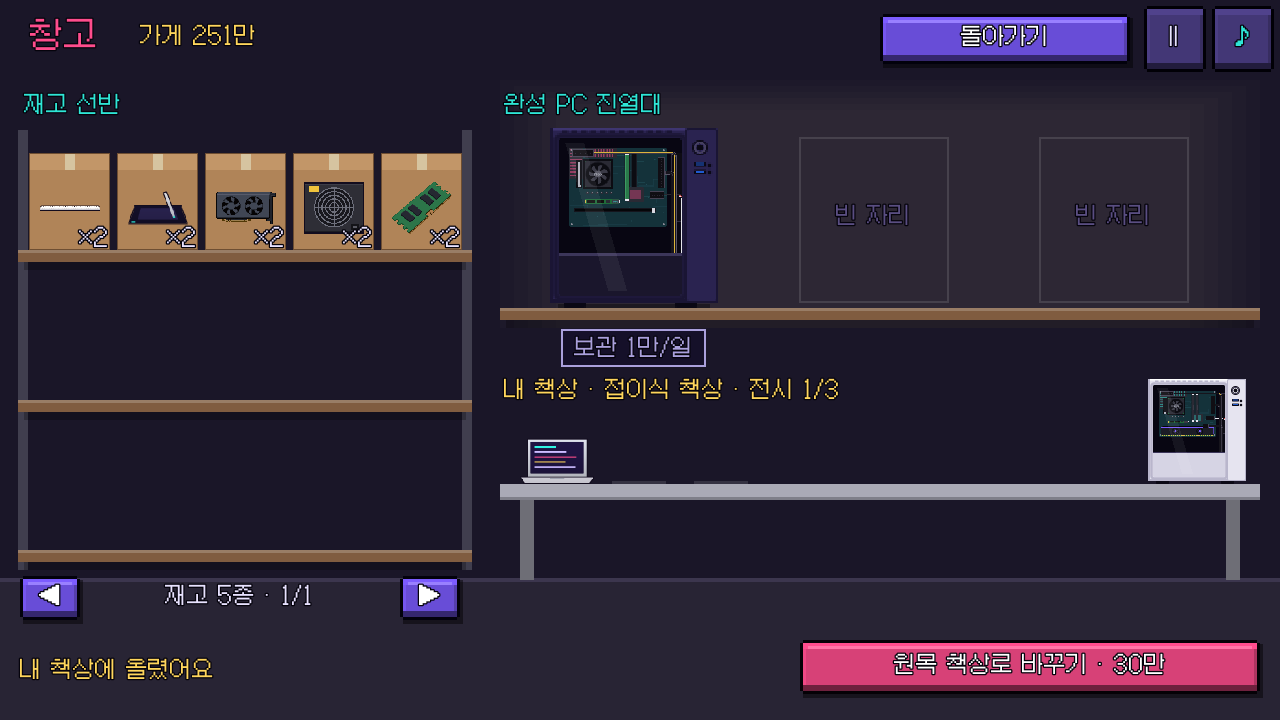
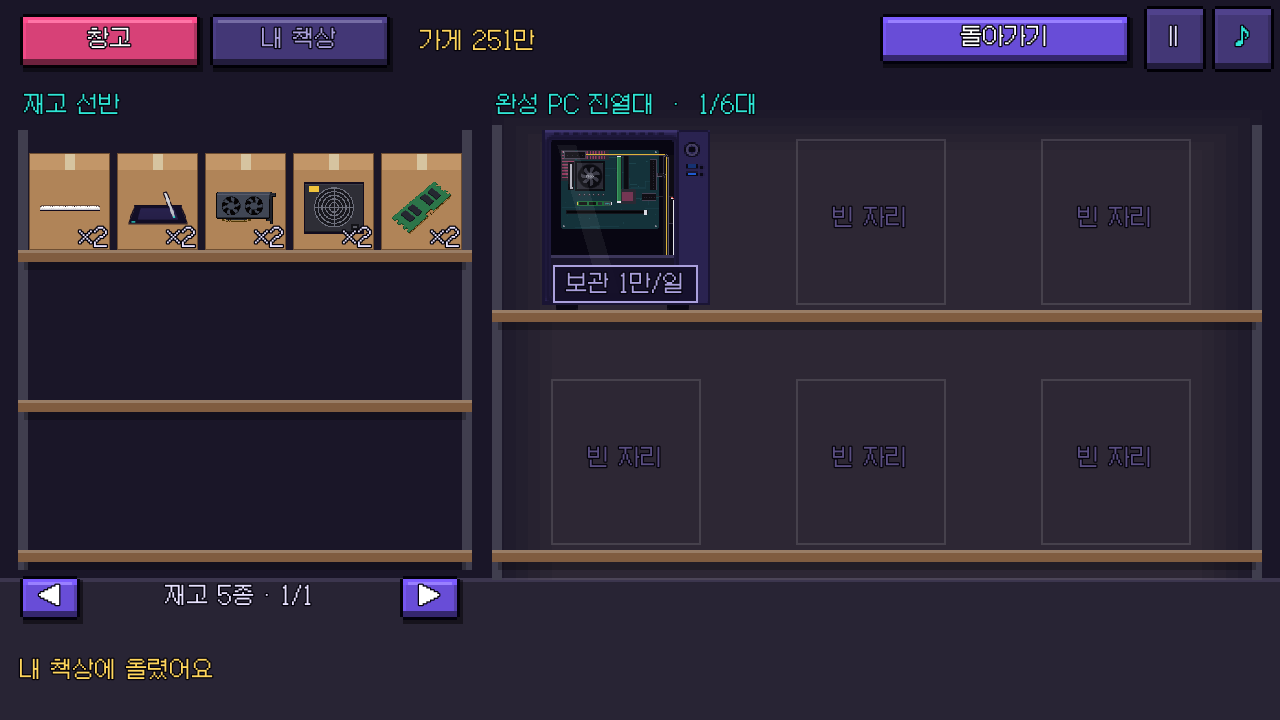
창고: 완성 PC 진열대 2단(6대) · 내 책상은 위쪽 탭으로 따로 보는 화면

diff --git a/README.md b/README.md
@@ -21,7 +21,7 @@
 - **소리**: 직접 합성한 효과음 15종 + 배경음 1곡 (M = 음소거)
 - **쇼핑 (데스크몰)**: 소품 57종 · PC 부품 37종. 카테고리 → 상품 카드 → 상세 페이지(사양 · 설명 · 수량) → 장바구니 → 결제 → 영수증 → 창고로 배송. 남은 물건은 창고에 남아 다음 주문에 씀 (반품은 반값)
 - **마진**: 손님은 자기 예산을 그대로 내고(별 1개당 팁 추가, 별 0개면 0원), 물건 값은 가게가 냄. 예산은 조건을 맞추는 최저 구성의 1.3배 정도라 빠듯함 → 마진은 알뜰 구매 · 팁에서. 예산을 넘는 구성은 손님이 거절
-- **창고**: 영업 마감(또는 ll → 창고)에서 들어가는 철제 선반 창고. 남은 소품 상자를 눌러 **내 책상**에 전시하고, 남는 돈으로 책상을 바꿔 전시 칸을 늘림(3 → 5 → 7). 켜지는 PC는 **완성 PC 랙**(3대)에 미리 조립해 두었다가, 용도 · 새 제품 조건 · 예산이 맞는 손님에게만 바로 꺼내 씀 (하루 보관료 1만/대)
+- **창고**: 영업 마감(또는 ll → 창고)에서 들어가는 철제 선반 창고. 남은 소품 상자를 눌러 **내 책상**(위쪽 탭으로 따로 보는 화면)에 전시하고, 남는 돈으로 책상을 바꿔 전시 칸을 늘림(3 → 5 → 7). 켜지는 PC는 **완성 PC 진열대**(2단 6대)에 미리 조립해 두었다가, 용도 · 새 제품 조건 · 예산이 맞는 손님에게만 바로 꺼내 씀 (하루 보관료 1만/대)
 - **성장**: 받은 별이 쌓이면 가게 레벨업 → 팁 비율 상승 · 게이밍 라인(Lv2) · 하이엔드 부품(Lv3) 업그레이드 구매 가능
 - **PC 조립 (드래그 앤 드롭, 실제 순서)**: 케이스 → 메인보드 → 소켓 레버 열기 → CPU → 레버 닫기 → 서멀 구리스 → 쿨러 → RAM → M.2 SSD → 그래픽카드 → 파워 → 전원선(24핀 · CPU 8핀 · GPU 8핀) → 케이스 전원 버튼선. 소켓(AM/LGA) · 보드 크기 · 그래픽카드 길이 · 쿨러 높이가 안 맞으면 안 들어감. 전원 테스트는 디버그 LED(CPU → DRAM → VGA → BOOT)로 막힌 곳을 알려 줌
 - **배선**: 모니터는 DP(그래픽카드가 개수 결정), USB 기기는 USB(메인보드가 개수 결정), 스피커 · 헤드셋은 오디오. 무선 기기는 USB 동글을 꽂음(선 없음). 선이 꼬이면 감점
